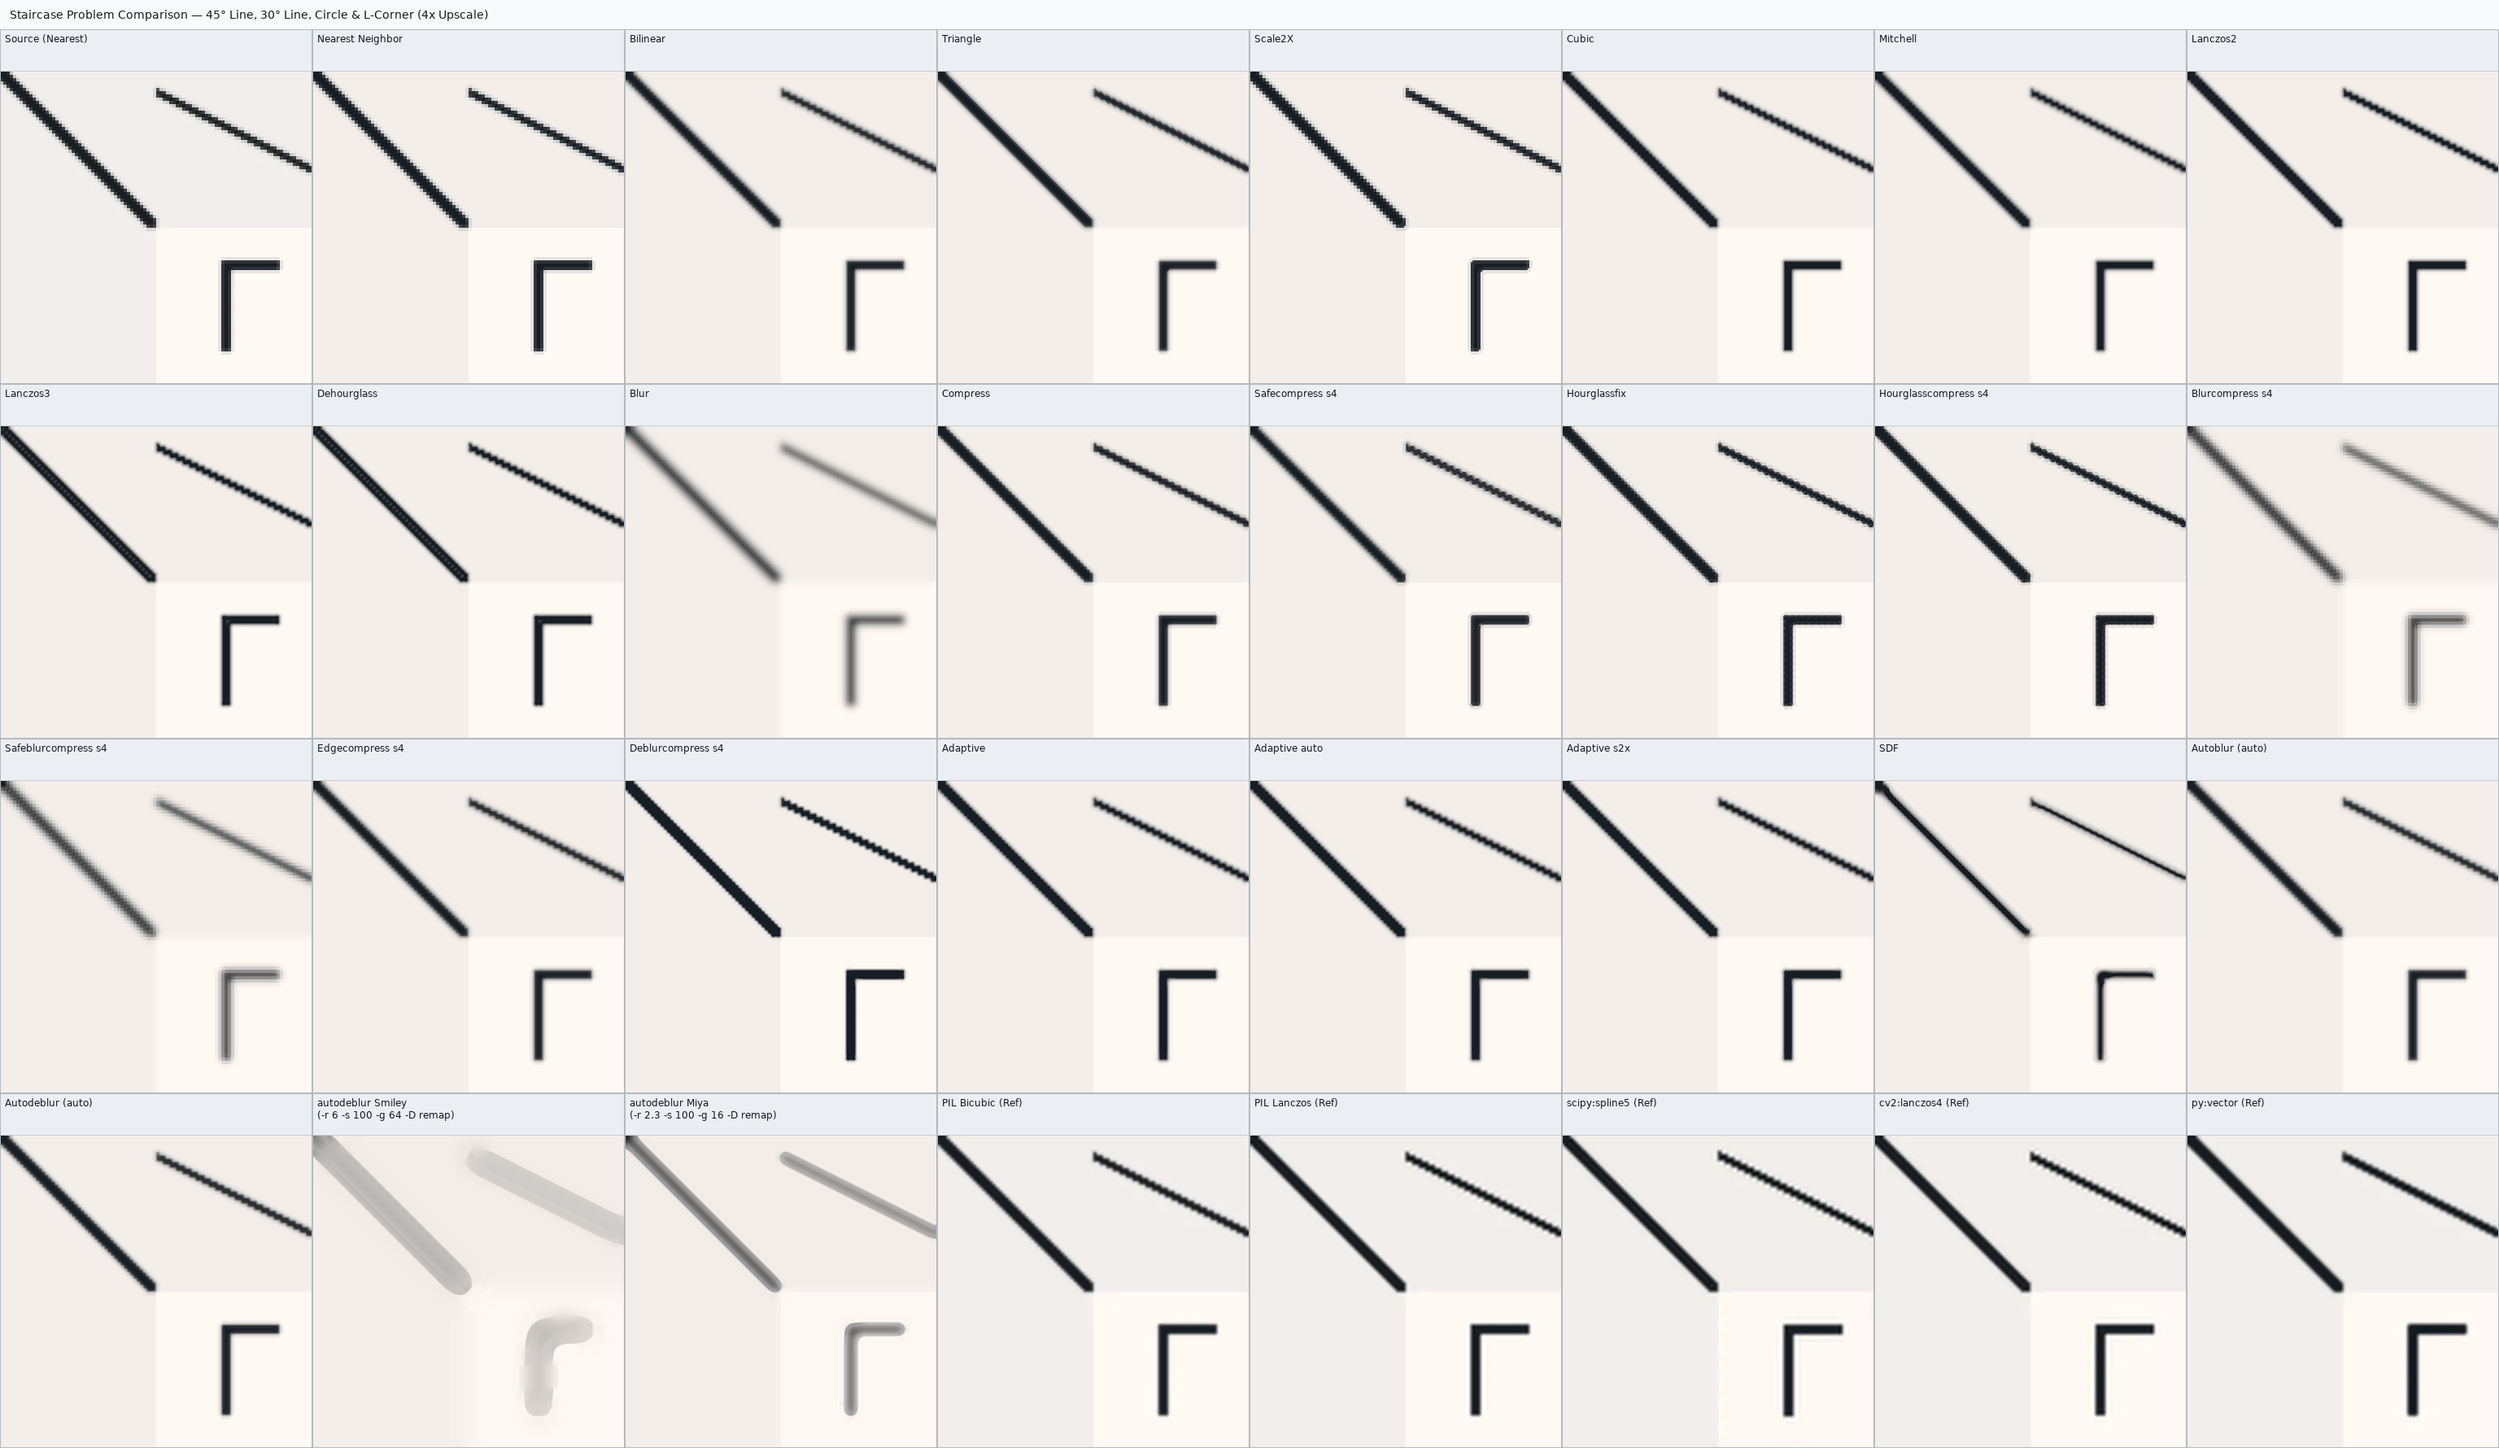
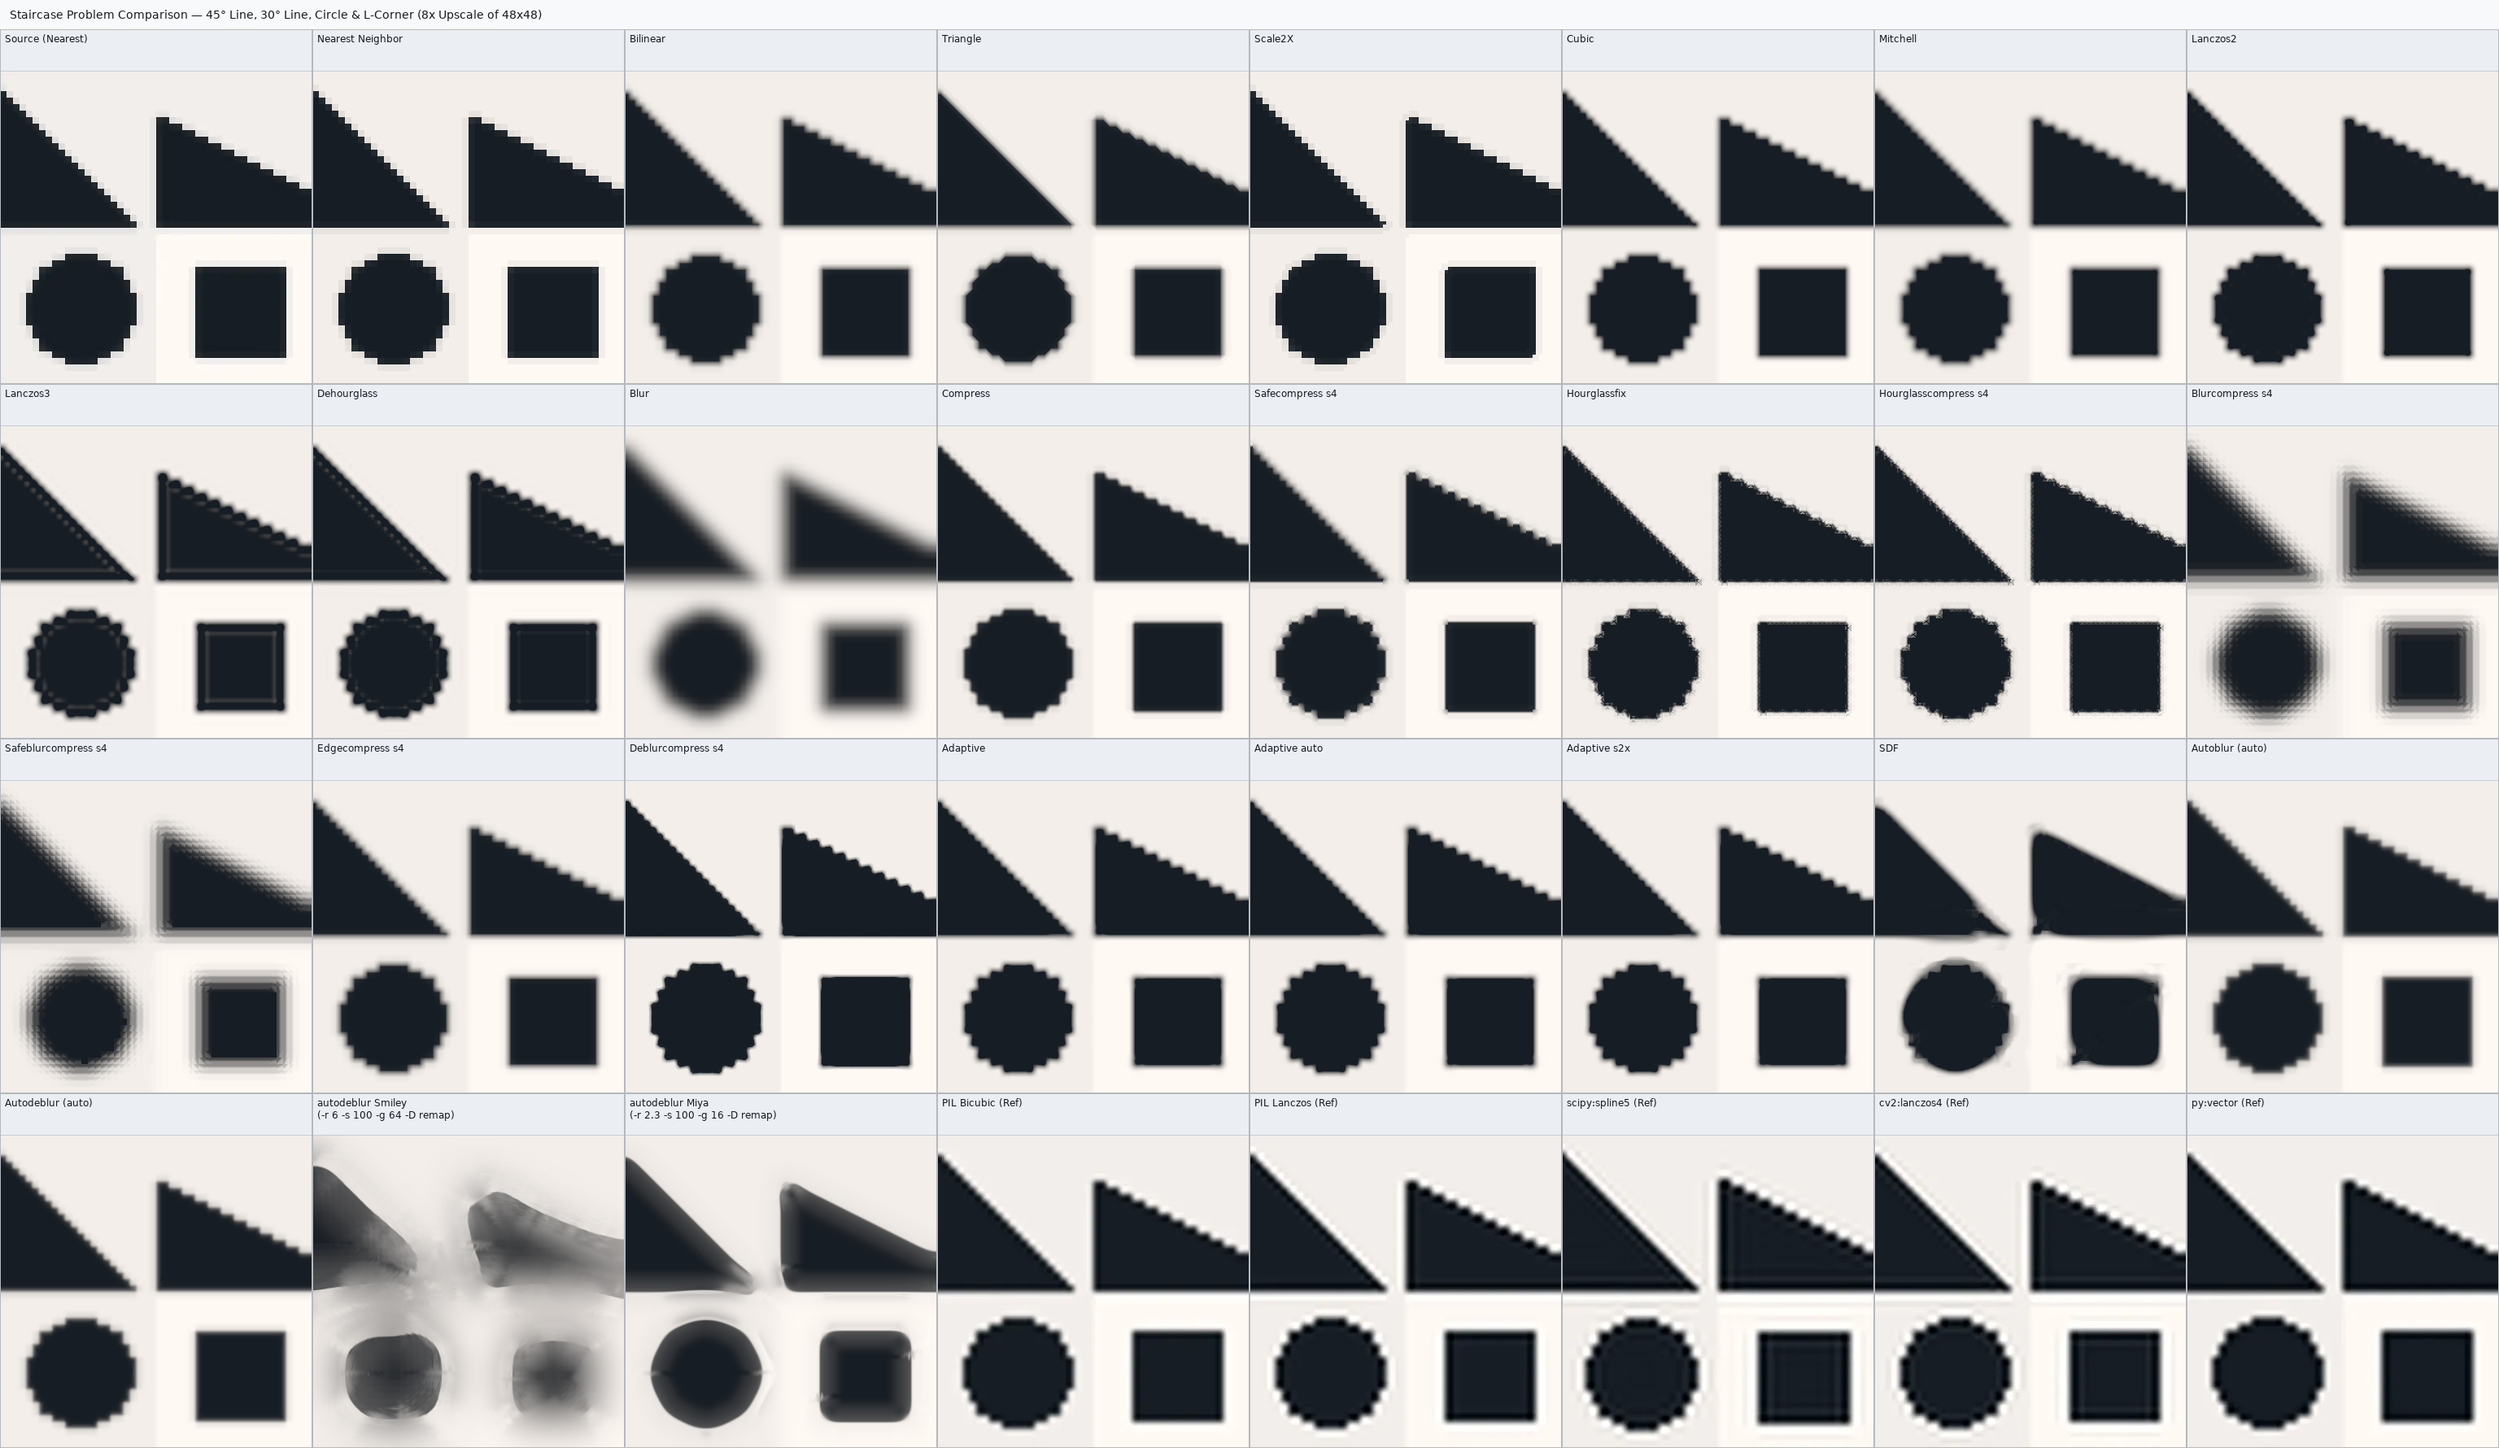
v4.9.3: 8x upscale on bold 48x48 staircase fixture so steps are visually distinct across 32 modes

diff --git a/make_smiley_staircase_sheets.py b/make_smiley_staircase_sheets.py
@@ -152,26 +152,23 @@ def run_upscale(src_path, dst_path, scale, tool, mode, extra):
 def create_staircase_test_image(path_webp, path_png):
     from scipy.ndimage import gaussian_filter
 
-    yy, xx = np.mgrid[0:96, 0:96]
-    lum = np.ones((96, 96), dtype=np.float64)
+    yy, xx = np.mgrid[0:48, 0:48]
+    lum = np.ones((48, 48), dtype=np.float64)
 
-    # Top left: 45-degree diagonal line
-    lum[0:48, 0:48] = np.where(np.abs((xx[0:48, 0:48] - 5) - (yy[0:48, 0:48] - 5)) <= 2, 0.08, 0.95)
+    # Top left: Bold 45-degree diagonal half-plane edge
+    lum[0:24, 0:24] = np.where((yy[0:24, 0:24] - xx[0:24, 0:24]) > 2, 0.08, 0.95)
 
-    # Top right: 30-degree shallow diagonal line (slope 1/2)
-    lum[0:48, 48:96] = np.where(
-        np.abs((xx[0:48, 48:96] - 48) - 2.0 * (yy[0:48, 48:96] - 6)) <= 2.5, 0.08, 0.95
-    )
+    # Top right: Bold 30-degree shallow diagonal edge
+    lum[0:24, 24:48] = np.where(yy[0:24, 24:48] > (0.5 * (xx[0:24, 24:48] - 24) + 6), 0.08, 0.95)
 
-    # Bottom left: Anti-aliased circle
-    dist_circ = np.sqrt((xx[48:96, 0:48] - 24) ** 2 + (yy[48:96, 0:48] - 24) ** 2)
-    lum[48:96, 0:48] = np.where(np.abs(dist_circ - 14) <= 2, 0.08, 0.95)
+    # Bottom left: Bold circular disk contour
+    dist_circ = np.sqrt((xx[24:48, 0:24] - 12) ** 2 + (yy[24:48, 0:24] - 36) ** 2)
+    lum[24:48, 0:24] = np.where(dist_circ <= 8.5, 0.08, 0.95)
 
-    # Bottom right: L-corner / junction
-    lum[58:86, 68:71] = 0.08
-    lum[58:61, 71:86] = 0.08
+    # Bottom right: Bold square L-corner block
+    lum[30:44, 30:44] = 0.08
 
-    lum = gaussian_filter(lum, 0.5)
+    lum = gaussian_filter(lum, 0.4)
     lum = np.round(lum * 44.0) / 44.0
     rgba = np.dstack([lum, lum * 0.95 + 0.03, lum * 0.90 + 0.06, np.ones_like(lum)])
     rgba_u8 = (np.clip(rgba, 0, 1) * 255).astype(np.uint8)
@@ -282,21 +279,21 @@ def main():
         # --------------------------------------------------------------------
         # Sheet 2: staircase_comparison (staircase_test.webp 96x96 -> 384x384 4x)
         # --------------------------------------------------------------------
-        print("3. Generating staircase_comparison sheet (4x upscale)...")
+        print("3. Generating staircase_comparison sheet (8x upscale)...")
         stair_panels = []
         for label, tool, mode, extra in MODES:
             out_p = td / f"stair_{tool}_{mode}_{len(stair_panels)}.webp"
-            run_upscale(stair_webp, out_p, 4, tool, mode, extra)
+            run_upscale(stair_webp, out_p, 8, tool, mode, extra)
             im = Image.open(out_p).convert("RGB")
             stair_panels.append((label, im))
 
         sheet_stair = make_grid_sheet(
-            "Staircase Problem Comparison — 45° Line, 30° Line, Circle & L-Corner (4x Upscale)",
+            "Staircase Problem Comparison — 45° Line, 30° Line, Circle & L-Corner (8x Upscale of 48x48)",
             stair_panels,
             cols=8,
         )
         sheet_stair.save(SHEET_DIR / "staircase_comparison.webp", lossless=True)
-        print("   -> saved staircase_comparison.png (.webp)")
+        print("   -> saved staircase_comparison.webp")
 
         # --------------------------------------------------------------------
         # Sheet 3: staircase_diag45_comparison (diagline48_src.webp 64x64 -> 256x256 4x)
